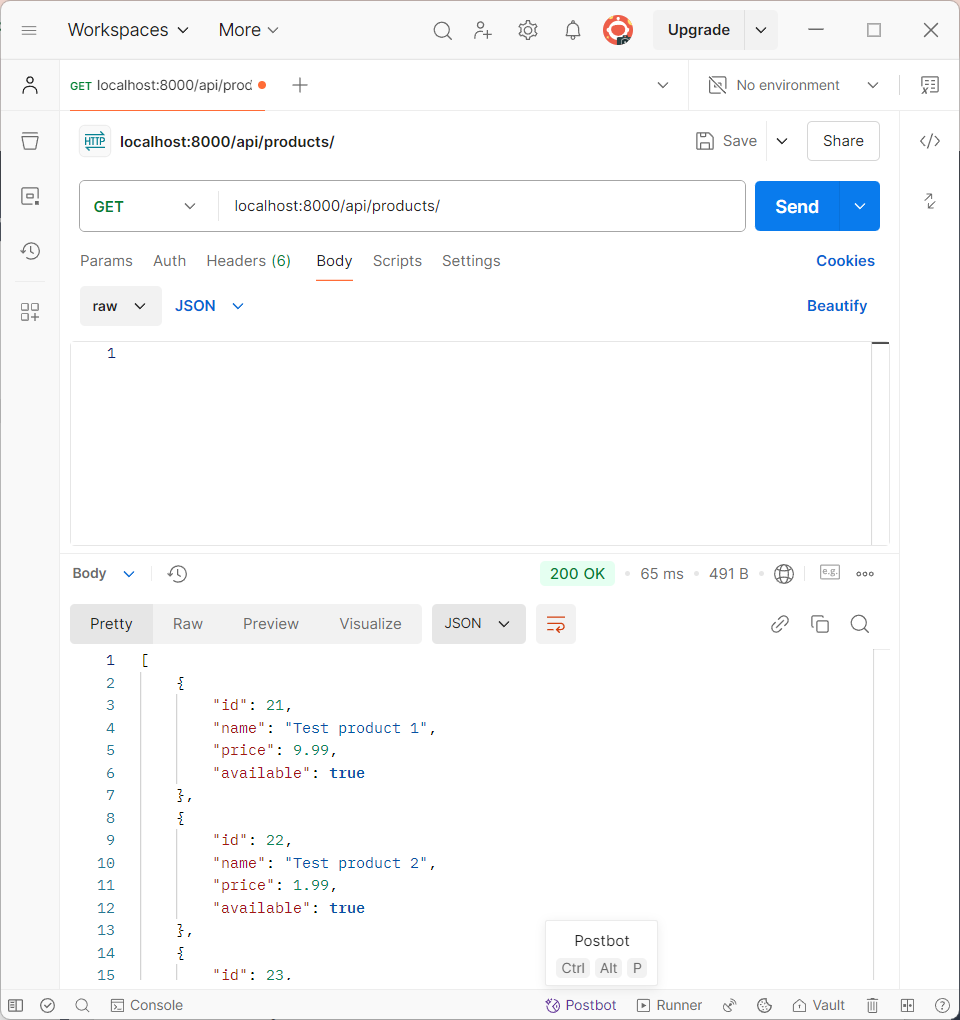
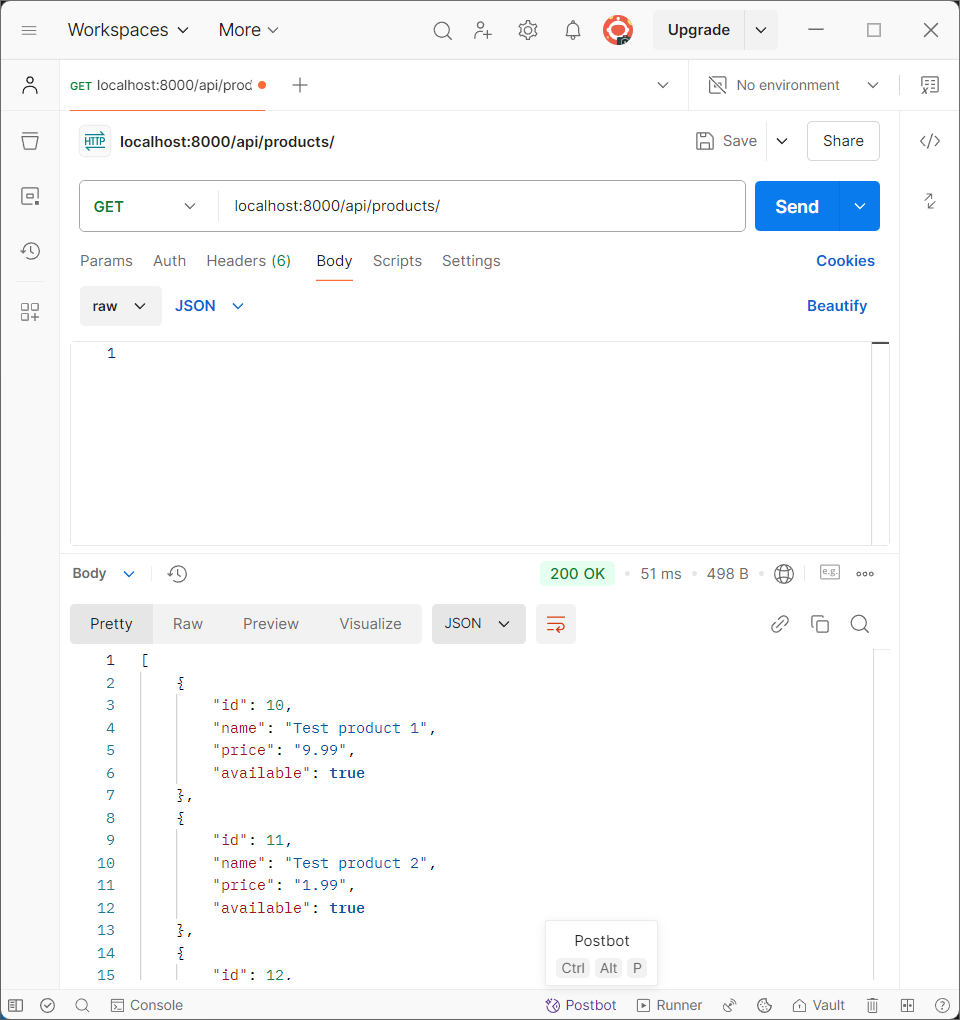
Modified views.py so that they trigger validators if the data is wrong + changed screenshots (problem set 6, part 1, step 7)

diff --git a/djangoproject/djangoapp/views.py b/djangoproject/djangoapp/views.py
@@ -2,6 +2,7 @@ import json
 from django.http import JsonResponse
 from django.views.decorators.csrf import csrf_exempt
 from .models import Product
+from decimal import Decimal
 
 # def hello_world(request):
 #     return HttpResponse("Hello, World!")
@@ -18,11 +19,9 @@ def product_list(request):
         price = data.get('price')
         available = data.get('available')
 
-        product = Product.objects.create(
-            name=name, 
-            price=price,
-            available=available
-        )
+        product = Product(name=name, price=Decimal(str(price)), available=available)
+        product.full_clean()
+        product.save()
 
         return JsonResponse({
             'id': product.id,
@@ -33,6 +32,7 @@ def product_list(request):
             status=201
         )
 
+@csrf_exempt
 def product_detail(request, product_id):
     if request.method == 'GET':
         product = Product.objects.get(id=product_id)
